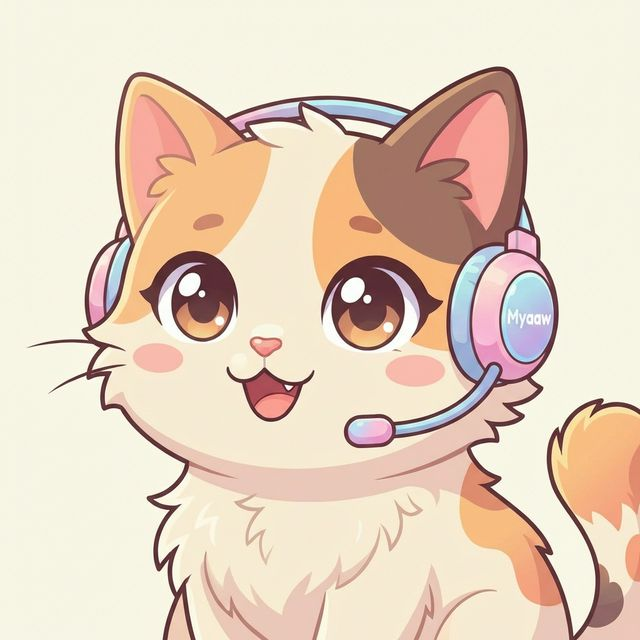
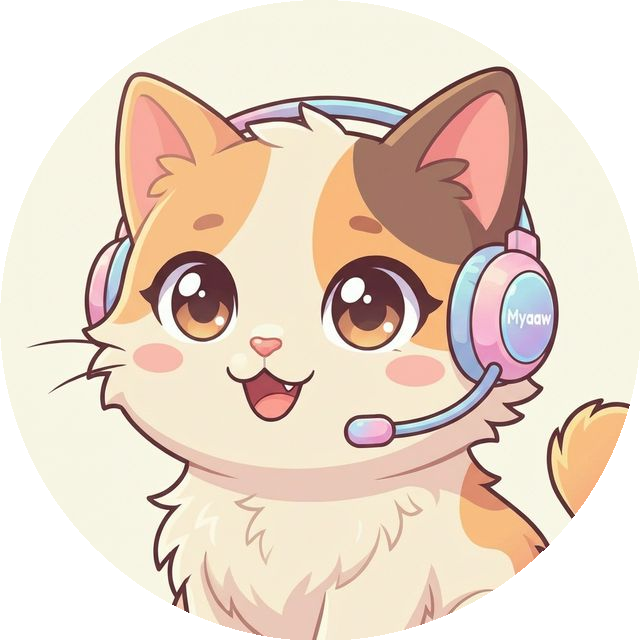
docs: Update mascot image and remove circular styling from README.

diff --git a/README.md b/README.md
@@ -1,7 +1,7 @@
 # 🔗 Myaaw (My AI Agent Well)
 
 <div align="center">
-  <img src="docs/images/mascot/myaaw.png" alt="Myaaw Mascot" width="200" style="border-radius: 50%;" />
+  <img src="docs/images/mascot/myaaw.png" alt="Myaaw Mascot" width="200" />
 </div>
 
 Myaaw is a cat who becomes your personal AI assistant.
